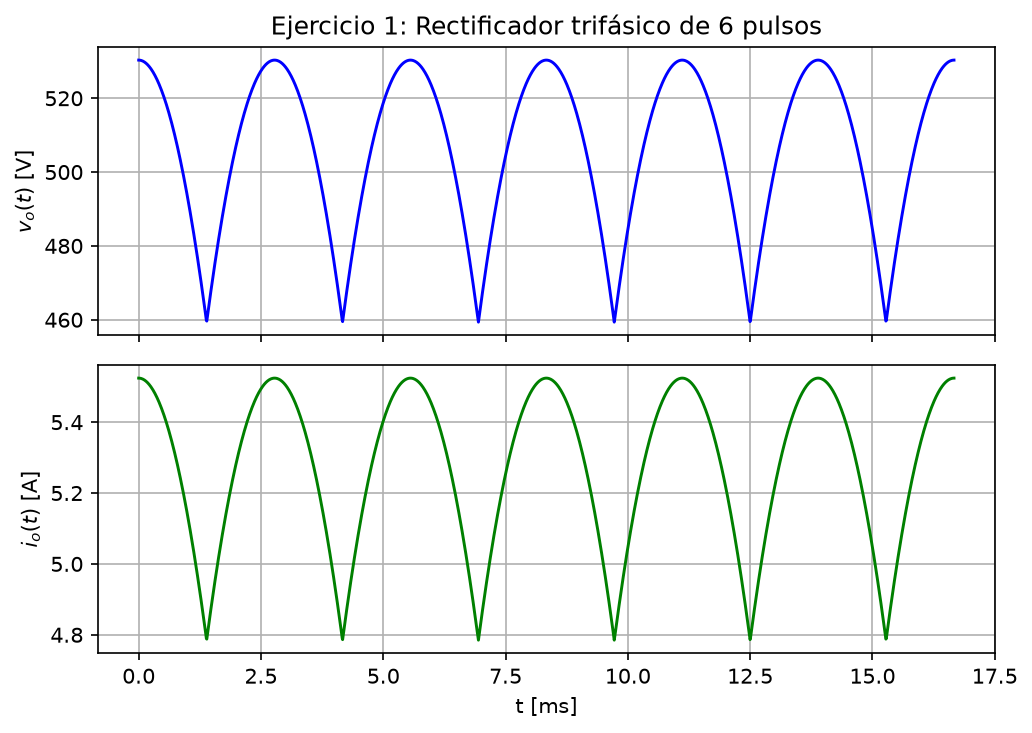
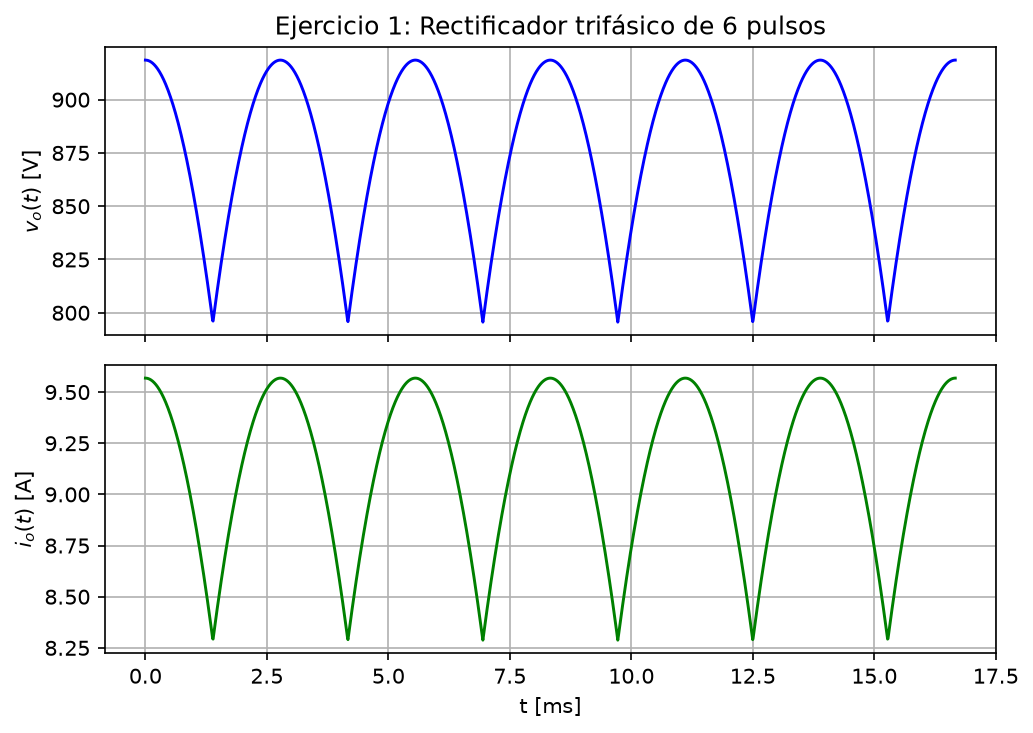
Fix Ex1: Vf is phase voltage, bridge fed by line-to-line VL=Vf*sqrt(3)
Corrects Vdc/Vrms/Idc/Irms/P/S magnitudes for the three-phase 6-pulse
bridge; PF, eta, and ripple factors were unaffected (linear circuit).

diff --git a/T2/main.tex b/T2/main.tex
@@ -46,13 +46,16 @@
 Circuito: puente rectificador trifásico de 6 diodos (Figura 1), alimentado por
 un sistema trifásico balanceado, con carga R-L.
 
-\textbf{Datos:} $V_f=25(a+b+c)=25(3+9+3)=375\,\text{V}$ (tensión línea-línea rms),
+\textbf{Datos:} $V_f=25(a+b+c)=25(3+9+3)=375\,\text{V}$ (tensión de fase, línea-neutro, rms).
+El puente de 6 pulsos rectifica las tensiones línea-línea, por lo que la tensión
+que efectivamente alimenta el puente es
+$V_L=V_f\sqrt3=375\,\text{V}(1{,}732)=649{,}5\,\text{V}$.
 $f=60{,}0\,\text{Hz}$, $R=8(a+b)=8(12)=96{,}0\,\Omega$, $L=(2b+c)=(18+3)=21{,}0\,\text{mH}$.
 
 \subsection{Procedimiento}
 
 \begin{equation}
-    V_m = 375\,\text{V}\times\sqrt{2} = 530\,\text{V}
+    V_m = 649{,}5\,\text{V}\times\sqrt{2} = 918{,}4\,\text{V}
 \end{equation}
 
 \begin{equation}
@@ -61,16 +64,16 @@ $f=60{,}0\,\text{Hz}$, $R=8(a+b)=8(12)=96{,}0\,\Omega$, $L=(2b+c)=(18+3)=21{,}0\
 
 \textbf{Componente DC (integración $-\pi/6$ a $\pi/6$):}
 \begin{equation}
-    V_{DC} = \frac{1}{\pi/3\,\text{rad}}\int_{-\pi/6\,\text{rad}}^{\pi/6\,\text{rad}} 530\,\text{V}\cos\theta\,d\theta
-    = \frac{3(530\,\text{V})}{\pi}\left[\sin\frac{\pi}{6}-\sin\left(-\frac{\pi}{6}\right)\right]
+    V_{DC} = \frac{1}{\pi/3\,\text{rad}}\int_{-\pi/6\,\text{rad}}^{\pi/6\,\text{rad}} 918{,}4\,\text{V}\cos\theta\,d\theta
+    = \frac{3(918{,}4\,\text{V})}{\pi}\left[\sin\frac{\pi}{6}-\sin\left(-\frac{\pi}{6}\right)\right]
 \end{equation}
 
 \begin{equation}
-    \boxed{V_{DC} = 506\,\text{V}}
+    \boxed{V_{DC} = 877\,\text{V}}
 \end{equation}
 
 \begin{equation}
-    I_{DC} = \frac{506\,\text{V}}{96{,}0\,\Omega} = \boxed{5{,}28\,\text{A}}
+    I_{DC} = \frac{877\,\text{V}}{96{,}0\,\Omega} = \boxed{9{,}14\,\text{A}}
 \end{equation}
 
 \textbf{Armónico dominante $n=1$, $m=6$, $f_6=360\,\text{Hz}$:}
@@ -82,51 +85,51 @@ $f=60{,}0\,\text{Hz}$, $R=8(a+b)=8(12)=96{,}0\,\Omega$, $L=(2b+c)=(18+3)=21{,}0\
     Z_6 = 96{,}0\,\Omega + j(2262\,\text{rad/s})(0{,}021\,\text{H}) = 96{,}0\,\Omega + j47{,}5\,\Omega
 \end{equation}
 
-Con la amplitud del armónico 6 obtenida por integración de $530\cos\theta\cos(6\theta)$
+Con la amplitud del armónico 6 obtenida por integración de $918{,}4\cos\theta\cos(6\theta)$
 en $[-\pi/6,\pi/6]$ (calculada numéricamente en \texttt{scripts/rectifiers/ex1\_bridge\_rl.py}),
 el aporte de ondulación resultante es pequeño frente a la componente DC, consistente
 con el bajo factor de rizado obtenido en el Paso siguiente.
 
 \textbf{Valores RMS, corrientes de línea y de diodo:}
 \begin{equation}
-    V_{rms} = \boxed{506{,}8\,\text{V}}, \qquad I_{rms} = \boxed{5{,}28\,\text{A}}
+    V_{rms} = \boxed{877{,}9\,\text{V}}, \qquad I_{rms} = \boxed{9{,}14\,\text{A}}
 \end{equation}
 
 \begin{equation}
-    I_L = I_{DC}\sqrt{2/3} = 5{,}28\,\text{A}\,(0{,}8165) = \boxed{4{,}31\,\text{A}}
+    I_L = I_{DC}\sqrt{2/3} = 9{,}14\,\text{A}\,(0{,}8165) = \boxed{7{,}46\,\text{A}}
 \end{equation}
 
 \begin{equation}
-    I_{D,DC} = \frac{I_{DC}}{\sqrt3} = \frac{5{,}28\,\text{A}}{1{,}732} = \boxed{3{,}05\,\text{A}},
-    \qquad I_{D,rms} = \boxed{3{,}05\,\text{A}}
+    I_{D,DC} = \frac{I_{DC}}{\sqrt3} = \frac{9{,}14\,\text{A}}{1{,}732} = \boxed{5{,}28\,\text{A}},
+    \qquad I_{D,rms} = \boxed{5{,}28\,\text{A}}
 \end{equation}
 
 \textbf{Potencia, factor de potencia, eficiencia, factores de rizado:}
 \begin{equation}
-    P = I_{rms}^2 R = (5{,}28\,\text{A})^2(96{,}0\,\Omega) = \boxed{2675\,\text{W}}
+    P = I_{rms}^2 R = (9{,}14\,\text{A})^2(96{,}0\,\Omega) = \boxed{8025\,\text{W}}
 \end{equation}
 
 \begin{equation}
-    S = \sqrt3\,V_f\,I_L = \sqrt3\,(375\,\text{V})(4{,}31\,\text{A}) = \boxed{2798\,\text{VA}}
+    S = \sqrt3\,V_L\,I_L = \sqrt3\,(649{,}5\,\text{V})(7{,}46\,\text{A}) = \boxed{8393\,\text{VA}}
 \end{equation}
 
 \begin{equation}
-    fp = \frac{2675\,\text{W}}{2798\,\text{VA}} = \boxed{0{,}956}
+    fp = \frac{8025\,\text{W}}{8393\,\text{VA}} = \boxed{0{,}956}
 \end{equation}
 
 \begin{equation}
-    \eta = \frac{P_{DC}}{S} = \frac{2672\,\text{W}}{2798\,\text{VA}} = \boxed{0{,}955}
+    \eta = \frac{P_{DC}}{S} = \frac{8015\,\text{W}}{8393\,\text{VA}} = \boxed{0{,}955}
 \end{equation}
 
 \begin{equation}
-    FR_V = \frac{20{,}5\,\text{V}}{506\,\text{V}} = \boxed{0{,}0404}, \qquad
-    FR_I = \frac{0{,}191\,\text{A}}{5{,}28\,\text{A}} = \boxed{0{,}0362}
+    FR_V = \frac{35{,}4\,\text{V}}{877\,\text{V}} = \boxed{0{,}0404}, \qquad
+    FR_I = \frac{0{,}331\,\text{A}}{9{,}14\,\text{A}} = \boxed{0{,}0362}
 \end{equation}
 
 \textbf{Especificaciones del puente rectificador:} cada diodo debe soportar una
-tensión inversa de pico $PIV = V_m = 530\,\text{V}$ y una corriente eficaz
-$I_{D,rms}=3{,}05\,\text{A}$; se recomiendan diodos de $\geq 800\,\text{V}$ y
-$\geq 6\,\text{A}$ (margen de seguridad $\sim$1,5$\times$).
+tensión inversa de pico $PIV = V_m = 918{,}4\,\text{V}$ y una corriente eficaz
+$I_{D,rms}=5{,}28\,\text{A}$; se recomiendan diodos de $\geq 1400\,\text{V}$ y
+$\geq 8\,\text{A}$ (margen de seguridad $\sim$1,5$\times$).
 
 \subsection{Gráficas de las señales de salida}
 
@@ -160,14 +163,14 @@ modelo analítico; falta contrastar contra la simulación de circuito real.}
 \toprule
 \textbf{Parámetro} & \textbf{Valor} & \textbf{Unidad}\\
 \midrule
-$V_{DC}$ & 506 & V\\
-$V_{rms}$ & 506{,}8 & V\\
-$I_{DC}$ & 5{,}28 & A\\
-$I_{rms}$ & 5{,}28 & A\\
-$I_L$ & 4{,}31 & A\\
-$I_{D,rms}$ & 3{,}05 & A\\
-$P$ & 2675 & W\\
-$S$ & 2798 & VA\\
+$V_{DC}$ & 877 & V\\
+$V_{rms}$ & 877{,}9 & V\\
+$I_{DC}$ & 9{,}14 & A\\
+$I_{rms}$ & 9{,}14 & A\\
+$I_L$ & 7{,}46 & A\\
+$I_{D,rms}$ & 5{,}28 & A\\
+$P$ & 8025 & W\\
+$S$ & 8393 & VA\\
 $fp$ & 0{,}956 & --\\
 $\eta$ & 0{,}955 & --\\
 $FR_V$ & 0{,}0404 & --\\

diff --git a/scripts/dump_t2_values.py b/scripts/dump_t2_values.py
@@ -13,11 +13,13 @@ a, b, c = 3, 9, 3
 
 results = {}
 
-# Ex1: 3-phase 6-pulse bridge. Vf=25(a+b+c) line-to-line, f=60, R=8(a+b), L=(2b+c)mH
-VL1 = 25 * (a + b + c)
+# Ex1: 3-phase 6-pulse bridge. Vf=25(a+b+c) is the PHASE (line-to-neutral) RMS
+# voltage; the bridge is fed by the line-to-line voltage VL = Vf*sqrt(3).
+Vf1 = 25 * (a + b + c)
+VL1 = Vf1 * 3 ** 0.5
 R1 = 8 * (a + b)
 L1 = (2 * b + c) * 1e-3
-results["ex1"] = dict(VL=VL1, f=60.0, R=R1, L_mH=(2 * b + c),
+results["ex1"] = dict(Vf=Vf1, VL=VL1, f=60.0, R=R1, L_mH=(2 * b + c),
                        out=ex1_solve(VL1, 60.0, R1, L1))
 
 # Ex2: 3-phase half-wave, Vm=611V (peak phase), f=50Hz, reuse R,L from Ex1

diff --git a/T2/generate_plots.py b/T2/generate_plots.py
@@ -40,8 +40,9 @@ def plot_two(t_ms, v, i, title, fname, vlabel="$v_o(t)$ [V]", ilabel="$i_o(t)$ [
     save(fig, fname)
 
 
-# --- Ex1: 3-phase 6-pulse bridge ---
-VL1, f1, R1, L1 = 375.0, 60.0, 96.0, 21e-3
+# --- Ex1: 3-phase 6-pulse bridge (Vf=375V is phase RMS; VL=Vf*sqrt(3) feeds the bridge) ---
+Vf1, f1, R1, L1 = 375.0, 60.0, 96.0, 21e-3
+VL1 = Vf1 * np.sqrt(3)
 Vm1 = VL1 * np.sqrt(2)
 w1 = 2 * np.pi * f1
 T1 = 1 / f1

diff --git a/T2/matlab/ex1.m b/T2/matlab/ex1.m
@@ -1,5 +1,5 @@
 t = linspace(0, 1/60, 2000);
-vo = 530*cos(mod(377*t+pi/6, pi/3) - pi/6);
+vo = 918.4*cos(mod(377*t+pi/6, pi/3) - pi/6);
 plot(t*1e3, vo); xlabel('t (ms)'); ylabel('v_o (V)'); grid on;
 io = vo/96;
 figure; plot(t*1e3, io); xlabel('t (ms)'); ylabel('i_o (A)'); grid on;
